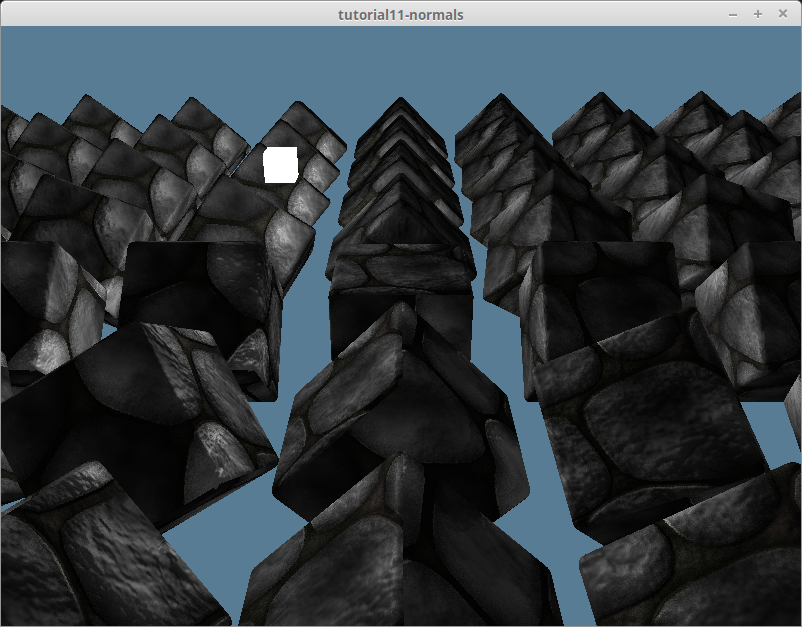
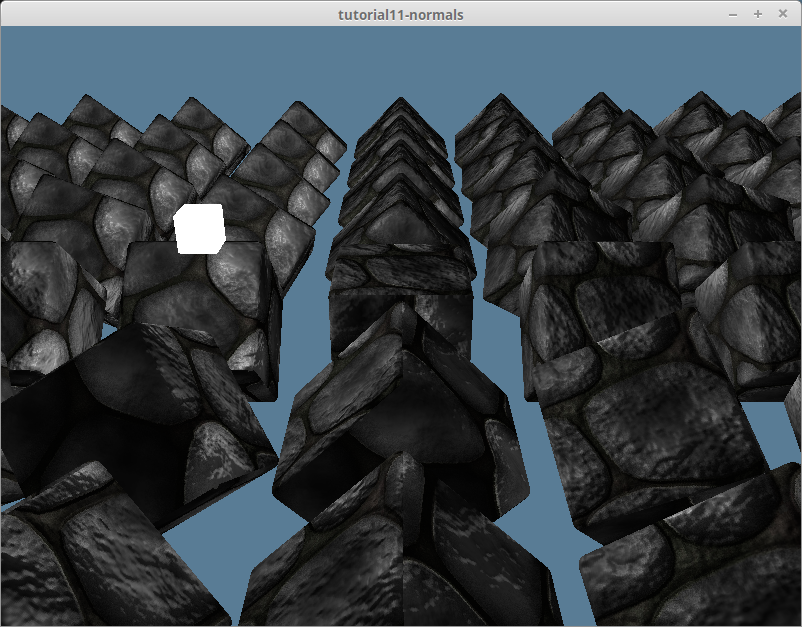
fixed #46

diff --git a/code/intermediate/tutorial11-normals/src/texture.rs b/code/intermediate/tutorial11-normals/src/texture.rs
@@ -14,13 +14,14 @@ impl Texture {
     pub fn load<P: AsRef<Path>>(
         device: &wgpu::Device,
         path: P,
+        is_normal_map: bool,
     ) -> Result<(Self, wgpu::CommandBuffer), failure::Error> {
         // Needed to appease the borrow checker
         let path_copy = path.as_ref().to_path_buf();
         let label = path_copy.to_str();
         
         let img = image::open(path)?;
-        Self::from_image(device, &img, label)
+        Self::from_image(device, &img, label, is_normal_map)
     }
 
     pub fn create_depth_texture(device: &wgpu::Device, sc_desc: &wgpu::SwapChainDescriptor, label: &str) -> Self {
@@ -60,15 +61,21 @@ impl Texture {
     }
 
     #[allow(dead_code)]
-    pub fn from_bytes(device: &wgpu::Device, bytes: &[u8], label: &str) -> Result<(Self, wgpu::CommandBuffer), failure::Error> {
+    pub fn from_bytes(
+        device: &wgpu::Device, 
+        bytes: &[u8], 
+        label: &str, 
+        is_normal_map: bool,
+    ) -> Result<(Self, wgpu::CommandBuffer), failure::Error> {
         let img = image::load_from_memory(bytes)?;
-        Self::from_image(device, &img, Some(label))
+        Self::from_image(device, &img, Some(label), is_normal_map)
     }
 
     pub fn from_image(
         device: &wgpu::Device,
         img: &image::DynamicImage,
         label: Option<&str>,
+        is_normal_map: bool,
     ) -> Result<(Self, wgpu::CommandBuffer), failure::Error> {
         let rgba = img.to_rgba();
         let dimensions = img.dimensions();
@@ -85,7 +92,11 @@ impl Texture {
             mip_level_count: 1,
             sample_count: 1,
             dimension: wgpu::TextureDimension::D2,
-            format: wgpu::TextureFormat::Rgba8UnormSrgb,
+            format: if is_normal_map {
+                wgpu::TextureFormat::Rgba8Unorm
+            } else {
+                wgpu::TextureFormat::Rgba8UnormSrgb
+            },
             usage: wgpu::TextureUsage::SAMPLED | wgpu::TextureUsage::COPY_DST,
         });
 

diff --git a/code/intermediate/tutorial11-normals/src/main.rs b/code/intermediate/tutorial11-normals/src/main.rs
@@ -207,6 +207,7 @@ struct State {
     light_buffer: wgpu::Buffer,
     light_bind_group: wgpu::BindGroup,
     light_render_pipeline: wgpu::RenderPipeline,
+    #[allow(dead_code)]
     debug_material: model::Material,
 }
 
@@ -524,9 +525,9 @@ impl State {
             let normal_bytes = include_bytes!("res/cobble-normal.png");
 
             let mut command_buffers = vec![];
-            let (diffuse_texture, cmds) = texture::Texture::from_bytes(&device, diffuse_bytes, "res/alt-diffuse.png").unwrap();
+            let (diffuse_texture, cmds) = texture::Texture::from_bytes(&device, diffuse_bytes, "res/alt-diffuse.png", false).unwrap();
             command_buffers.push(cmds);
-            let (normal_texture, cmds) = texture::Texture::from_bytes(&device, normal_bytes, "res/alt-normal.png").unwrap();
+            let (normal_texture, cmds) = texture::Texture::from_bytes(&device, normal_bytes, "res/alt-normal.png", true).unwrap();
             command_buffers.push(cmds);
             queue.submit(&command_buffers);
             

diff --git a/code/intermediate/tutorial11-normals/src/model.rs b/code/intermediate/tutorial11-normals/src/model.rs
@@ -135,14 +135,14 @@ impl Model {
         let mut materials = Vec::new();
         for mat in obj_materials {
             let diffuse_path = mat.diffuse_texture;
-            let (diffuse_texture, cmds) = texture::Texture::load(device, containing_folder.join(diffuse_path))?;
+            let (diffuse_texture, cmds) = texture::Texture::load(device, containing_folder.join(diffuse_path), false)?;
             command_buffers.push(cmds);
             
             let normal_path = match mat.unknown_param.get("map_Bump") {
                 Some(v) => Ok(v),
                 None => Err(failure::err_msg("Unable to find normal map"))
             };
-            let (normal_texture, cmds) = texture::Texture::load(device, containing_folder.join(normal_path?))?;
+            let (normal_texture, cmds) = texture::Texture::load(device, containing_folder.join(normal_path?), true)?;
             command_buffers.push(cmds);
 
             materials.push(Material::new(

diff --git a/code/beginner/tutorial7-instancing/examples/texture_instances.rs b/code/beginner/tutorial7-instancing/examples/texture_instances.rs
@@ -275,7 +275,6 @@ struct State {
 
     size: winit::dpi::PhysicalSize<u32>,
 
-    instances: Vec<Instance>,
     #[allow(dead_code)]
     instance_texture: wgpu::Texture,
 }
@@ -389,8 +388,6 @@ impl State {
 
         
         let instance_data = instances.iter().map(Instance::to_raw).collect::<Vec<_>>();
-        // we'll need the size for later
-        let instance_buffer_size = instance_data.len() * std::mem::size_of::<cgmath::Matrix4<f32>>();
         let instance_buffer = device.create_buffer_with_data(
             bytemuck::cast_slice(&instance_data),
             wgpu::BufferUsage::COPY_SRC,
@@ -577,7 +574,6 @@ impl State {
             uniform_bind_group,
             uniforms,
             size,
-            instances,
             instance_texture,
         }
     }

diff --git a/docs/intermediate/tutorial11-normals/README.md b/docs/intermediate/tutorial11-normals/README.md
@@ -112,19 +112,11 @@ void main() {
 
     // ...
 
-    vec3 normal = normalize(object_normal.rgb); // UPDATED!
+    vec3 normal = normalize(object_normal.rgb * 2.0 - 1.0); // UPDATED!
     
     // ...
 }
 ```
-
-Now if you've used normal mapping in OpenGL, you may be wondering by we didn't adjust the normal value. Normally you'd do something like the following.
-
-```glsl
-vec3 normal = normalize(object_normal.rgb * 2.0 - 1.0);
-```
-
-We don't have to do this because we are using `wgpu::TextureFormat::Rgba8UnormSrgb`, our shader gets the texture data in the range of [-1.0, 1.0].
 
 If we run the code now, you'll notice things don't look quite right. Let's compare our results with the last tutorial.
 
@@ -313,7 +305,7 @@ layout(location=2) in mat3 v_tangent_matrix; // NEW!
 
 void main() {
     // ...
-    vec3 normal = normalize(v_tangent_matrix * object_normal.rgb);
+    vec3 normal = normalize(v_tangent_matrix * (object_normal.rgb * 2.0 - 1.0));
     // ...
 }
 ```
@@ -395,6 +387,90 @@ void main() {
 
 The resulting image isn't noticeably different so I won't show it here, but the calculation definitely is more efficient.
 
+## Srgb and normal textures
+
+We've been using `Rgba8UnormSrgb` for all our textures. The `Srgb` bit specifies that we will be using [standard red green blue color space](https://en.wikipedia.org/wiki/SRGB). This is also known as linear color space. Linear color space has less color density. Even so, it is often used for diffuse textures, as they are typically made in `Srgb` color space.
+
+Normal textures aren't made with `Srgb`. Using `Rgba8UnormSrgb` can changes how the GPU samples the texture. This can make the resulting simulation [less accurate](https://medium.com/@bgolus/generating-perfect-normal-maps-for-unity-f929e673fc57#b86c). We can avoid these issues by using `Rgba8Unorm` when we create the texture. Let's add an `is_normal_map` method to our `Texture` struct.
+
+```rust
+pub fn from_image(
+    device: &wgpu::Device,
+    img: &image::DynamicImage,
+    label: Option<&str>,
+    is_normal_map: bool, // NEW!
+) -> Result<(Self, wgpu::CommandBuffer), failure::Error> {
+    // ...
+    let texture = device.create_texture(&wgpu::TextureDescriptor {
+        label,
+        size,
+        array_layer_count: 1,
+        mip_level_count: 1,
+        sample_count: 1,
+        dimension: wgpu::TextureDimension::D2,
+        // UPDATED!
+        format: if is_normal_map {
+            wgpu::TextureFormat::Rgba8Unorm
+        } else {
+            wgpu::TextureFormat::Rgba8UnormSrgb
+        },
+        usage: wgpu::TextureUsage::SAMPLED | wgpu::TextureUsage::COPY_DST,
+    });
+
+    // ...
+    
+    Ok((Self { texture, view, sampler }, cmd_buffer))
+}
+```
+
+We'll need to propagate this change to the other methods that use this.
+
+```rust
+pub fn load<P: AsRef<Path>>(
+    device: &wgpu::Device,
+    path: P,
+    is_normal_map: bool, // NEW!
+) -> Result<(Self, wgpu::CommandBuffer), failure::Error> {
+    // ...
+    let img = image::open(path)?;
+    Self::from_image(device, &img, label, is_normal_map) // UPDATED!
+}
+
+// ...
+
+#[allow(dead_code)]
+pub fn from_bytes(
+    device: &wgpu::Device, 
+    bytes: &[u8], 
+    label: &str, 
+    is_normal_map: bool, // NEW!
+) -> Result<(Self, wgpu::CommandBuffer), failure::Error> {
+    let img = image::load_from_memory(bytes)?;
+    Self::from_image(device, &img, Some(label), is_normal_map)
+}
+```
+
+We need to update `model.rs` as well.
+
+```rust
+let diffuse_path = mat.diffuse_texture;
+// UPDATED!
+let (diffuse_texture, cmds) = texture::Texture::load(device, containing_folder.join(diffuse_path), false)?;
+command_buffers.push(cmds);
+
+let normal_path = match mat.unknown_param.get("map_Bump") {
+    Some(v) => Ok(v),
+    None => Err(failure::err_msg("Unable to find normal map"))
+};
+// UDPATED!
+let (normal_texture, cmds) = texture::Texture::load(device, containing_folder.join(normal_path?), true)?;
+command_buffers.push(cmds);
+```
+
+That gives us the following.
+
+![](./no_srgb.png)
+
 ## Unrelated stuff
 
 While I was debugging the normal mapping code, I made a few changes to `model.rs` that I haven't mentioned. I wanted to be able to see the model with different textures, so I modified the `Material` struct to have a `new()` method.
@@ -448,14 +524,14 @@ This simplifies the code in `Model::load()`.
 let mut materials = Vec::new();
 for mat in obj_materials {
     let diffuse_path = mat.diffuse_texture;
-    let (diffuse_texture, cmds) = texture::Texture::load(device, containing_folder.join(diffuse_path))?;
+    let (diffuse_texture, cmds) = texture::Texture::load(device, containing_folder.join(diffuse_path), false)?;
     command_buffers.push(cmds);
     
     let normal_path = match mat.unknown_param.get("map_Bump") {
         Some(v) => Ok(v),
         None => Err(failure::err_msg("Unable to find normal map"))
     };
-    let (normal_texture, cmds) = texture::Texture::load(device, containing_folder.join(normal_path?))?;
+    let (normal_texture, cmds) = texture::Texture::load(device, containing_folder.join(normal_path?), true)?;
     command_buffers.push(cmds);
 
     materials.push(Material::new(

diff --git a/docs/beginner/tutorial1-window/README.md b/docs/beginner/tutorial1-window/README.md
@@ -14,16 +14,13 @@ wgpu = "0.5.0"
 futures = "0.3.4"
 ```
 
-If you're on Windows, you can specify Vulkan as your desired backend instead of DirectX by removing the `wgpu = "0.5.0"` and adding the following.
+If you're on MacOS, you can specify Vulkan (MoltenVK) as your desired backend instead of Metal by removing the `wgpu = "0.5.0"` and adding the following.
 
 ``` toml
 [dependencies.wgpu]
 version = "0.5.0"
 features = ["vulkan"]
 ```
-
-<!-- ## Why vulkan?
-You need to specify what rendering backend you're using through [Cargo features](https://doc.rust-lang.org/cargo/reference/manifest.html#the-features-section) in order to run a program with wgpu. I'm specifying [vulkan](https://www.khronos.org/vulkan/), because I'm on [linux](https://www.linuxmint.com/). You're welcome to use [metal](https://developer.apple.com/metal/), or `DirectX 11/12` using `"metal"`, `"dx11"`, or `"dx12"` respectively.  -->
 
 
 ## The code
